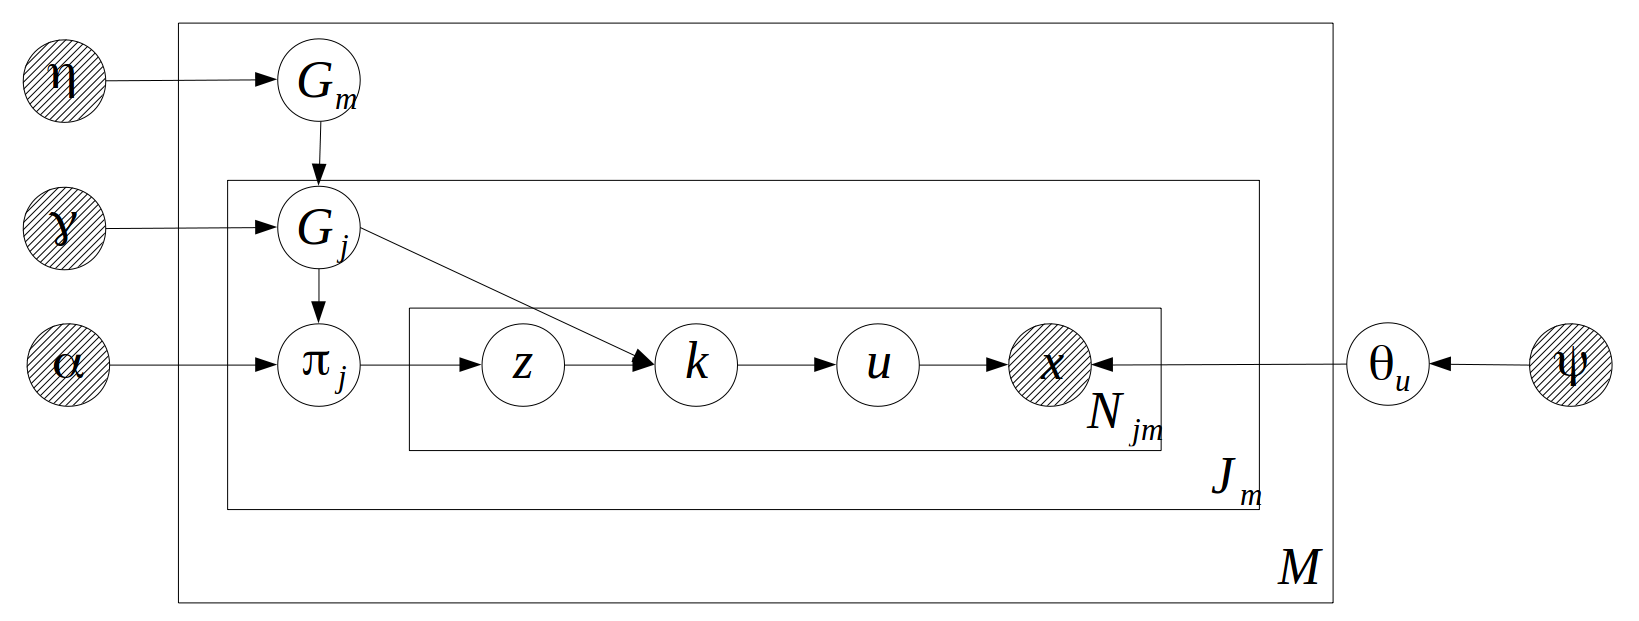
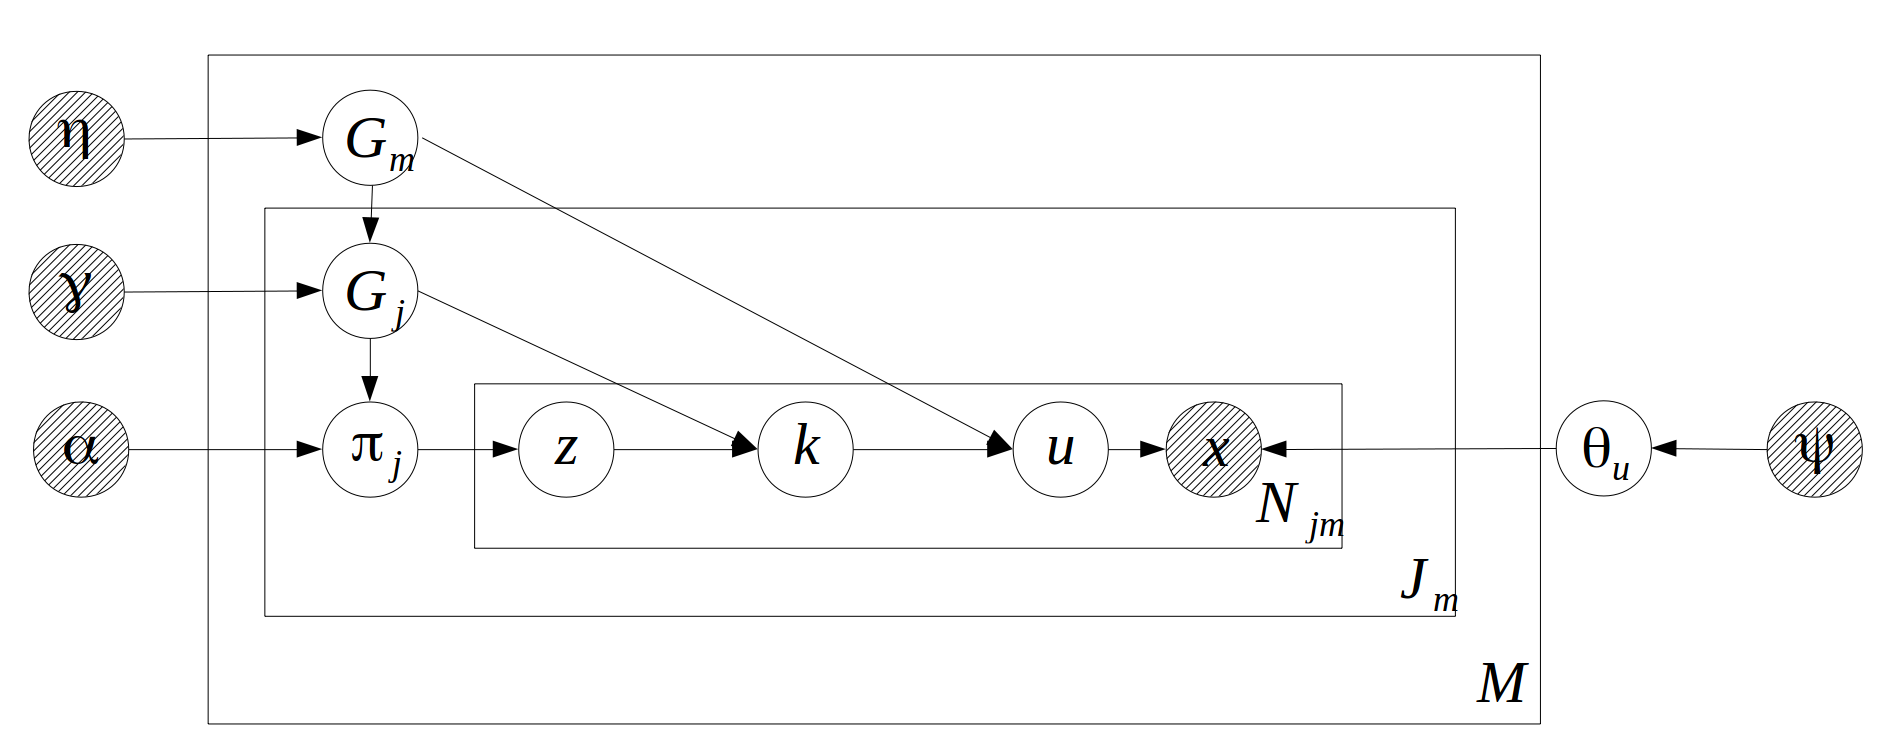
add note

diff --git a/README.raw.md b/README.raw.md
@@ -2,8 +2,8 @@
 
 [![Build Status](https://travis-ci.com/chenhaotian/Bayesian-Bricks.svg?token=hByNmnrjfd4L3sAdyCVy&branch=master)](https://travis-ci.com/chenhaotian/Bayesian-Bricks)
 
+**bbricks** provides a collection of frequently used Bayesian parametric and nonparametric model *structures*, as well as a set of tools for common analytical *tasks*.
 
-**bbricks** provides a collection of frequently used Bayesian parametric and nonparametric model *structures* and their inference *tasks*.
 + *Structures* include Gaussian and Normal-Inverse-Wishart conjugate structure, Gaussian and Normal-Inverse-Gamma conjugate structure, Categorical and Dirichlet conjugate structure, Dirichlet Process on positive integers, Dirichlet Process in general, Hierarchical Dirichlet Process ...
 + *Tasks* include updating posteriors, calculating marginal likelihood, calculating posterior predictive, calculating MAP estimates ...
 
@@ -28,18 +28,22 @@ devtools::install_github("chenhaotian/Bayesian-Bricks")
 + [Bayesian Linear Regression](#bayesian-linear-regression)
 + [Estimate Cancer Mortality Rates with Hierarchical Bayesian](#estimate-cancer-mortality-rates-with-hierarchical-bayesian)
 + [Mixture of Gaussian](#mixture-of-gaussian)
-+ [Dirichlet Process Mixture Model](#dirichlet-process-mixture-model)
-+ [Mixture Model with Partially Observed Cluster Labels](#mixture-model-with-partially-observed-cluster-labels)
+  + [Dirichlet Process Mixture Model](#dirichlet-process-mixture-model)
+  + [Mixture Model with Partially Observed Cluster Labels](#mixture-model-with-partially-observed-cluster-labels)
 + [Hierarchical Mixture Models](#hierarchical-mixture-models)
-+ [Topic Modeling with HDP](#topic-modeling-with-hdp)
-+ [Hierarchical Topic Modeling with HDP2](#hierarchical-topic-modeling-with-hdp2)
-+ [Infinite State Hidden Markov Model](#infinite-state-hidden-markov-model)
+  
+  + [Topic Modeling with HDP](#topic-modeling-with-hdp)
++ [Hierarchical Mixture Models with Two Layers of Hierarchies](#hierarchical-mixture-models-with-two-layers-of-hierarchies)
+  
+  + [Hierarchical Topic Modeling with HDP2](#hierarchical-topic-modeling-with-hdp2)
+  
+  
 
 
 
 ## Mindset
 
-The idea of **bbricks** came from the fact that modeling in Bayesian statistics is nothing more than applying set of **tasks** on a specific **model structure**.
+The idea of **bbricks** came from the fact that modeling in Bayesian statistics is nothing more than applying a set of **tasks** on a specific **model structure**.
 
 Where the most frequently appeared **tasks** are:
 + Update prior info into posterior when new samples are observed.
@@ -70,23 +74,22 @@ Here's a list of examples:
 
 [Mixture of Gaussian](#mixture-of-gaussian)
 
-[Dirichlet Process Mixture Model](#dirichlet-process-mixture-model)
-
-[Mixture Model with Partially Observed Cluster Labels](#mixture-model-with-partially-observed-cluster-labels)
++ [Dirichlet Process Mixture Model](#dirichlet-process-mixture-model)
++ [Mixture Model with Partially Observed Cluster Labels](#mixture-model-with-partially-observed-cluster-labels)
 
 [Hierarchical Mixture Models](#hierarchical-mixture-models)
 
-[Topic Modeling with HDP](#topic-modeling-with-hdp)
++ [Topic Modeling with HDP](#topic-modeling-with-hdp)
 
-[Hierarchical Topic Modeling with HDP2](#hierarchical-topic-modeling-with-hdp2)
+[Hierarchical Mixture Models with Two Layers of Hierarchies](#hierarchical-mixture-models-with-two-layers-of-hierarchies)
 
-[Infinite State Hidden Markov Model](#infinite-state-hidden-markov-model)
++ [Hierarchical Topic Modeling with HDP2](#hierarchical-topic-modeling-with-hdp2)
 
 
 
 ### Bayesian Linear Regression
 
-A Bayesian linear regression model has following graph structure:
+A Bayesian linear regression model has the following graph structure:
 
 ![](./notes_pictures/bayesianLinearRegression.png)
 
@@ -178,7 +181,7 @@ data(cancerData)
 ## Step1: Initialization----------------------------------------------
 K <- length(cancerData)                          #then number of cities
 eta <- 1                                         #assume eta is known, eta=1
-## initialize a, PI, and sufficient statistics
+## initialize alpha, PI, and sufficient statistics
 a <- rexp(2,rate = eta)                 #initialize alpha
 PI <- matrix(0,K,2L)                    #initialize pi
 cityPrior <- CatDirichlet(gamma = list(alpha=a,uniqueLabels=c("death","no death")))
@@ -228,7 +231,7 @@ legend(1, 0.005, legend=c("Sample Mean", "MLE"),col=c("black", "blue"), lty=c(1,
 
 ### Mixture of Gaussian
 
-A mixture of Gaussian has following graph structure:
+A mixture of Gaussian has the following graph structure:
 
 ![](./notes_pictures/mixtureModel.png)
 
@@ -244,7 +247,7 @@ $$
 
 Where $NIW(\gamma)$ is the Normal-Inverse-Wishart distribution with parameter $\gamma = (m,k,v,S)$. $m$ is a numeric vector representing the "location parameter", $S$ is a symmetric positive definitive matrix representing the "scale parameter", $k$ and $v$ are degree of freedoms.
 
-A mixture model can be see as a combination of two "prior-posterior" structures(As shown in [Mindset](#mindset) graph $(b)$): One Categorical-Dirichlet structure $\alpha \rightarrow \pi \rightarrow z$ for the hidden cluster labels. and one Gaussian-NIW structure $\gamma \rightarrow \theta_z \rightarrow x$ for the observation distribution.
+A mixture model can be see as a combination of two "prior-posterior" structures(As shown in [Mindset](#mindset) graph $(b)$): One Categorical-Dirichlet structure $\alpha \rightarrow \pi \rightarrow z$ for the hidden cluster labels. and one Gaussian-NIW structure $\gamma \rightarrow \theta \rightarrow x$ for the observation distribution.
 
 In **bbricks** these two structures are initialized with a `"CatDirichlet"` object and a `"GaussianNIW"` object. To estimate $\pi$ and $\theta$, we use the following EM procedure:
 
@@ -307,7 +310,7 @@ ecMAP                                 #the MAP estimate of theta_z
 
 
 
-### Dirichlet Process Mixture Model
+#### Dirichlet Process Mixture Model
 
 The graph structure of Dirichlet Process Mixture Model(DP-MM) is exactly the same as a standard mixture model, except that the number of mixture components is not predetermined:
 
@@ -326,7 +329,9 @@ Where $DP(\alpha)$ is a Dirichlet process on positive integers with "concentrati
 
 A DP-MM can be see as a combination of two "prior-posterior" structures(As shown in [Mindset](#mindset) graph $(b)$): One Categorical-DirichletProcess structure for the hidden cluster label distribution $\alpha \rightarrow \pi \rightarrow z$, which we call it a "DP on positive integers". And one structure for the observation distribution $\gamma \rightarrow \theta_z \rightarrow x$.
 
-To simplify the calculations, **bbricks** provides an `"DP"` type to represent all Dirichlet process structures. An object of type  `"DP"` is in essence a combination of a `"CatDP"` object, which encodes the $\alpha \rightarrow \pi \rightarrow z$ structure, i.e. a Dirichlet process on positive integers, and an arbitrary `"BasicBayesian"` object, which encodes the $\gamma \rightarrow \theta_z \rightarrow x$ structure. (in **bbricks**, all models with same structure as [Mindset](#mindset) graph $(b)$ are `"BasicBayesian" `s, such as `"GaussianNIW"`, `"CatDirichlet"` and even `"CatDP"`) .
+In **bbricks**, "DP on positive integers" is represented by an object of type `"CatDP"`.
+
+To further simplify the calculations, **bbricks** also provides an `"DP"` type to represent all Dirichlet process structures. An object of type  `"DP"` is in essence a combination of a `"CatDP"` object, which encodes the $\alpha \rightarrow \pi \rightarrow z$ structure, i.e. a Dirichlet process on positive integers, and an arbitrary `"BasicBayesian"` object, which encodes the $\gamma \rightarrow \theta_z \rightarrow x$ structure. (in **bbricks**, all models with same structure as [Mindset](#mindset) graph $(b)$ are `"BasicBayesian" `s, such as `"GaussianNIW"`, `"GaussianNIG"`, `"CatDirichlet"` and even `"CatDP"`) .
 
 To estimate $z$, we use the following collapse Gibbs sampling procedure:
 
@@ -385,7 +390,7 @@ plot(x=mmData[,1],y=mmData[,2],col=zBest)
 
 
 
-### Mixture Model with Partially Observed Cluster Labels
+#### Mixture Model with Partially Observed Cluster Labels
 
 In the dataset `mmData` of the previous example, what if we know the 50, 100, 150 and 200th samples belong to 4 different clusters(they are shown as different color and shapes in the graph below), how should we incorporate this information in the model?
 
@@ -415,7 +420,7 @@ Hierarchical Dirichlet Process(HDP) is a natural representation of a hierarchica
 
 ![](./notes_pictures/hierarchicalMixtureModel.png)
 
-If the observations are Gaussian distributed, the CPDs will be:
+If the component distribution is Gaussian, the CPDs will be:
 $$
 \begin{align}
 G_j|\gamma & \sim DP(\gamma) \\
@@ -426,15 +431,15 @@ k| z,G_j & \sim Categorical(G_j) \text{, if }z\text{ is a sample from } G_j\\
 x|\theta_k & \sim Gaussian(\theta_k)
 \end{align}
 $$
- $DP(\gamma)$ is a Dirichlet process on positive integers with "concentration parameter" $\gamma$, the "base measure", which is an uniform distribution on positive integers, is omitted from the formula.  $DP(\alpha,G_j)$ is a Dirichlet process with concentration parameter $\alpha$ and base measure $G_j$. $NIW(\psi)$ is the Normal-Inverse-Wishart distribution with parameter $\psi = (m,k,v,S)$. $m$ is a numeric vector representing the "location parameter", $S$ is a symmetric positive definitive matrix representing the "scale parameter", $k$ and $v$ are degree of freedoms.
+Where $DP(\gamma)$ is a Dirichlet process on positive integers with "concentration parameter" $\gamma$, the "base measure", which is an uniform distribution on positive integers, is omitted from the formula.  $DP(\alpha,G_j)$ is a Dirichlet process with concentration parameter $\alpha$ and base measure $G_j$. $NIW(\psi)$ is the Normal-Inverse-Wishart distribution with parameter $\psi = (m,k,v,S)$. $m$ is a numeric vector representing the "location parameter", $S$ is a symmetric positive definitive matrix representing the "scale parameter", $k$ and $v$ are degree of freedoms.
 
 The distribution of $(\gamma, \alpha, G_j, \pi_j , z, k)$ is a "HDP on positive integers". HDP on positive integers are usually represented in a much simpler and compact way(though not easier to understand) in most literature:
 
 ![](./notes_pictures/HDP.png)
 
-From the compact representation we can see that HDP on positive integers is following the "Hierarchical Bayesian" structure shown in [Mindset](#mindset) graph $(c)$.
+From the compact representation we can see that HDP on positive integers is following the "Hierarchical Bayesian" structure shown in [Mindset](#mindset) graph $(c)$. In **bbricks**, "HDP on positive integers" is represented by an object of type `"CatHDP"`.
 
-To simplify the calculations, **bbricks** provides an `"HDP"` type to represent all Hierarchical Dirichlet process structures. An object of type  `"HDP"` is in essence a combination of a `"CatHDP"` object, which encodes the distribution of $(\gamma, \alpha, G_j, \pi_j , z, k)$, i.e. a HDP on positive integers; and an arbitrary `"BasicBayesian"` object, which encodes the $\gamma \rightarrow \theta_z \rightarrow x$ structure. (in **bbricks**, all models with same structure as [Mindset](#mindset) graph $(b)$ are `"BasicBayesian" `s, such as `"GaussianNIW"`, `"CatDirichlet"` and even `"CatDP"`) 
+To simplify the mixture model calculations, **bbricks** alos provides an `"HDP"` type to represent more general hierarchical Dirichlet process models. An object of type  `"HDP"` is in essence a combination of a `"CatHDP"` object, which encodes the distribution of $(\gamma, \alpha, G_j, \pi_j , z, k)$, i.e. a HDP on positive integers; and an arbitrary `"BasicBayesian"` object, which encodes the $\psi \rightarrow \theta_k \rightarrow x$ structure. (in **bbricks**, all models with same structure as [Mindset](#mindset) graph $(b)$ are `"BasicBayesian" `s, such as `"GaussianNIW"`, `"GaussianNIG"` ,`"CatDirichlet"` and even `"CatDP"`) 
 
 To estimate $k$, we use the following Gibbs sampling procedure:
 
@@ -448,7 +453,7 @@ R code:
 library(bbricks)
 
 ## load some mixture of Gaussian samples.
-## mmhData is a list of two elements. mmhData$x is a matrix of Gaussian observations, each row is an observation; mmhData$groupLabel is the group label of each observations.
+## mmhData is a list of two elements. mmhData$x is a matrix of Gaussian observations, each row is an observation; mmhData$groupLabel is the group label of each observation.
 ## see ?mmhData for details
 data(mmhData)
 x <- mmhData$x
@@ -503,9 +508,9 @@ plot(x=x[,1],y=x[,2],col=kBest)
 
 
 
-### Topic Modeling with HDP
+#### Topic Modeling with HDP
 
-A topic model is a hierarchical mixture model(See [Hierarchical Mixture Models](#hierarchical-mixture-models)) with categorical observations:
+A topic model is a hierarchical mixture model(See [Hierarchical Mixture Models](#hierarchical-mixture-models)) with categorical component distribution:
 $$
 \begin{align}
 G_j|\gamma & \sim DP(\gamma) \\
@@ -580,21 +585,102 @@ wordcloud:: wordcloud(words = obj$X[[2]]$gamma$uniqueLabels,
                       colors=RColorBrewer::brewer.pal(5, "Set1"))
 ```
 
+### Hierarchical Mixture Models with Two Layers of Hierarchies
 
-
-### Hierarchical Topic Modeling with HDP2
-
-A hierarchical topic model is a hierarchical mixture model with 2 hierarchies:
-
+By extending the [Hierarchical Mixture Models](#hierarchical-mixture-models) with an additional layer of Dirichlet process on top, the model is then able to capture longer-term and cross-group dependencies.
+In this hierarchical mixture model, the observation $x$ are generated by some unknown mixture components and are split into $M$ groups, each group has $J_m,m=1,...,M$ sub-groups. All $M$ groups share the same set of mixture components but with different mixture weights, all $J_m$ sub-groups within each group $m$ also share the same set of mixture components but different mixture weights. The graphical model structure is:
 ![](./notes_pictures/hierarchicalMixtureModel2.png)
+If the component distribution is Gaussian, the CPDs will be:
+$$
+\begin{align}
+G_m | \eta & \sim DP(\eta) \\
+G_j|\gamma,G_m & \sim DP(\gamma,G_m) \\
+\pi_j |\alpha,G_j & \sim DP(\alpha,G_j) \\
+z | \pi & \sim Categorical(\pi) \\
+k| z,G_j & \sim Categorical(G_j) \text{, if }z\text{ is a sample from } G_j\\
+u| k,G_m & \sim Categorical(G_m) \text{, if }k\text{ is a sample from } G_m\\
+\theta_u | \psi & \sim NIW(\psi) \\
+x|\theta_u & \sim Gaussian(\theta_k)
+\end{align}
+$$
+
+Where $DP(\eta)$ is a Dirichlet process on positive integers with "concentration parameter" $\eta$, the "base measure", which is an uniform distribution on positive integers, is omitted from the formula. $DP(\gamma,G_m)$ is a Dirichlet process with concentration parameter $\gamma$ and base measure $G_m$. $DP(\alpha,G_j)$ is a Dirichlet process with concentration parameter $\alpha$ and base measure $G_j$. $NIW(\psi)$ is the Normal-Inverse-Wishart distribution with parameter $\psi = (m,k,v,S)$. $m$ is a numeric vector representing the "location parameter", $S$ is a symmetric positive definitive matrix representing the "scale parameter", $k$ and $v$ are degree of freedoms.
+
+The distribution of $(\eta,\gamma, \alpha, G_m,G_j, \pi_j , z, k,u)$ is a "HDP on positive integers with two layers of hierarchies". Like the `"CatHDP"` object mentioned in  [Hierarchical Mixture Models](#hierarchical-mixture-models), **bbricks** use a `"CatHDP2"` object to represent a "HDP on positive integers with two layers of hierarchies".
+
+To simplify the mixture model calculations, **bbricks** also provides an `"HDP2"` type to represent all hierarchical Dirichlet process with two layers of hierarchies. An object of type  `"HDP2"` is in essence a combination of a `"CatHDP2"` object, which encodes the distribution of $(\eta,\gamma, \alpha, G_m,G_j, \pi_j , z, k,u)$, i.e. a HDP on positive integers with two layers of hierarchies; and an arbitrary `"BasicBayesian"` object, which encodes the $\psi \rightarrow \theta_u \rightarrow x$ structure. (in **bbricks**, all models with same structure as [Mindset](#mindset) graph $(b)$ are `"BasicBayesian" `s, such as `"GaussianNIW"`, `"GaussianNIG"`, `"CatDirichlet"` and even `"CatDP"`)  
+
+To estimate $u$, we use the following Gibbs sampling procedure:
+
+1. sample $z_i,k_i,u_i$ from $z_i,k_i,u_i|z_{-i},k_{-i},u_{-i},\alpha,x,\gamma,\eta$.
+
+R code:
+
+```R
+## Sample cluster labels u from HDP2-MM using Gibbs sampling
+
+library(bbricks)
+
+## load some mixture of Gaussian samples.
+## mmhData is a list of 3 elements. mmhhData$x is a matrix of Gaussian observations, each row is an observation; mmhhData$groupLabel is the group label of each observation. mmhhData$subGroupLabel is the subgroup label of each observation.
+## there are 2 groups, group1 has 10 subgroups, group has 20 subgroups.
+## see ?mmhhData for details
+data(mmhhData)
+x <- mmhhData$x
+groupLabel <- mmhhData$groupLabel
+subGroupLabel <- mmhhData$subGroupLabel
+## Step1: Initialization------------------------------------------
+maxit <- 50                            #iterative for maxit times
+burnin <- 20                           #number of burn in samples
+## create a HDP2 object to track all the changes, the HDP2 object in this case is a combination of a CatHDP2 object and a GaussianNIW object
+obj <- HDP2(gamma = list(eta=1,gamma=1,alpha=1,m=2L,j=c(10L,20L),H0aF="GaussianNIW",parH0=list(m=c(0,0),k=0.001,v=1.1,S=diag(2)*0.001)))
+ss <- sufficientStatistics(obj$H,x=x,foreach = TRUE) #sufficient statistics
+z <- rep(1L,nrow(x))
+k <- rep(1L,nrow(x))
+u <- matrix(1L,nrow(x),maxit-burnin)
+N <- length(ss)
+## initialization k, z and u
+for(i in 1L:N){
+    tmp <- rPosteriorPredictive(obj = obj,n=1,x=x[i,,drop=FALSE],m=groupLabel[i],j=subGroupLabel[i])
+    z[i] <- tmp["z"]
+    k[i] <- tmp["k"]
+    u[i,1] <- tmp["u"]
+    posterior.HDP2(obj = obj,ss = ss[[i]],ss1 = u[i,1],ss2 = k[i],ss3 = z[i],m=groupLabel[i],j = subGroupLabel[i])
+}
+## Step2: main Gibbs loop---------------------------------------------
+it <- 1                                 #iteration counter
+pb <- txtProgressBar(min = 0,max = maxit,style = 3)
+while(it<=maxit){
+    if(it>burnin) colIdx <- it-burnin
+    else colIdx <- 1
+    for(i in 1L:N){
+        ## remove the sample from the posterior info
+        posteriorDiscard(obj = obj,ss = ss[[i]],ss1=u[i,colIdx],ss2=k[i],ss3 = z[i],m=groupLabel[i],j=subGroupLabel[i])
+        ## resample a new partition
+        tmp <- rPosteriorPredictive(obj = obj,n=1L,x=x[i,,drop=FALSE],m=groupLabel[i],j=subGroupLabel[i])
+        z[i] <- tmp["z"]
+        k[i] <- tmp["k"]
+        u[i,colIdx] <- tmp["u"]
+        ## add the information of the new sample
+        posterior(obj = obj,ss = ss[[i]], ss1=u[i,colIdx],ss2 = k[i],ss3 = z[i],m=groupLabel[i],j=subGroupLabel[i])
+    }
+    if(it>burnin & colIdx<ncol(u)) u[,colIdx+1] <- u[,colIdx] #copy result of previous iteration
+    it <- it+1
+    plot(x=x[,1],y=x[,2],col=u[,colIdx])
+    setTxtProgressBar(pb,it)
+}
+## Step3: Estimate group labels of each observation---------------
+## pick the most frequent u as the best estimate
+uBest <- apply(u,1,function(l){
+    tmp <- table(l)
+    names(tmp)[which.max(tmp)]
+})
+plot(x=x[,1],y=x[,2],col=uBest)
+```
 
 
 
+#### Hierarchical Topic Modeling with HDP2
 
-
-### Infinite State Hidden Markov Model
-
-
-
-
+If we want to extract topics from multiple corpus, and we want the corpus to share the same set of topics, this is a model called the "hierarchical topic model"(Griffiths, Thomas L., et al. "Hierarchical topic models and the nested chinese restaurant process." *Advances in neural information processing systems*. 2004.). A hierarchical topic model is a [Hierarchical Mixture Models with Two Layers of Hierarchies](#hierarchical-mixture-models-with-two-layers-of-hierarchies). The model can be built by simply replacing the `"GaussianNIW"` object with a `"CatDirichlet"` object in the previous R example.
 
